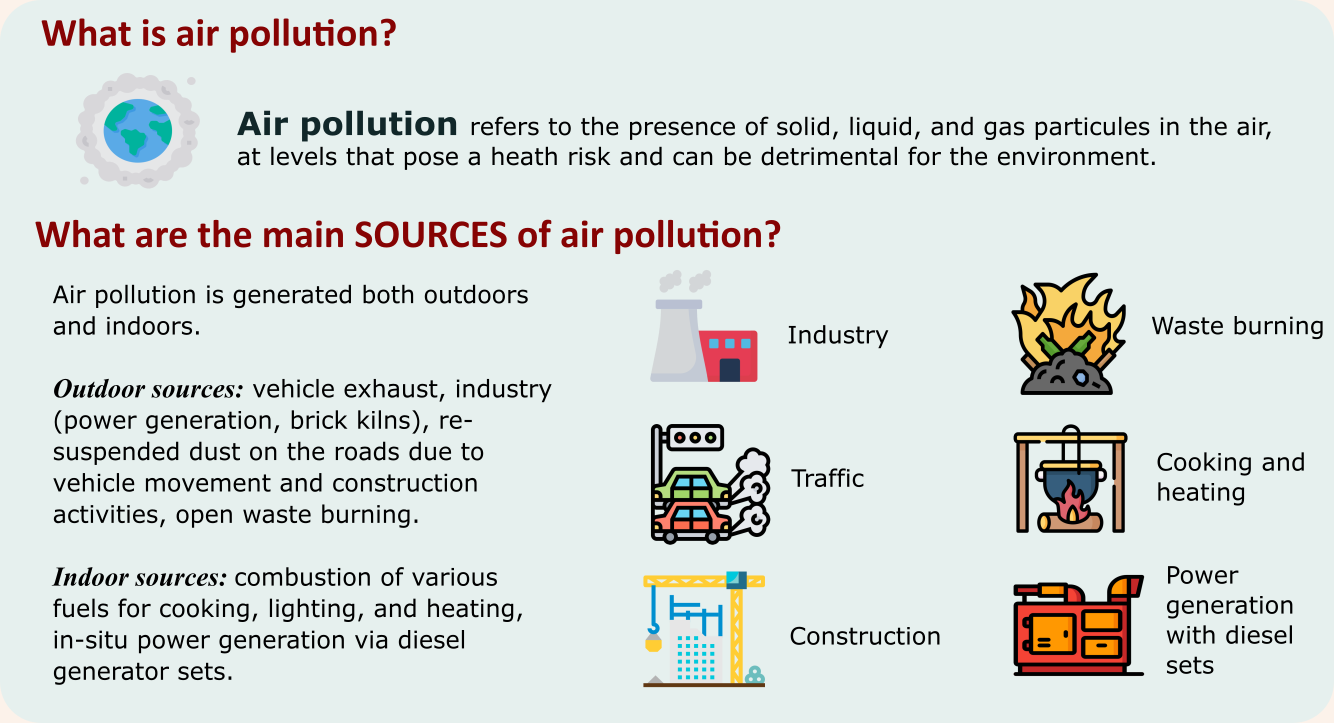
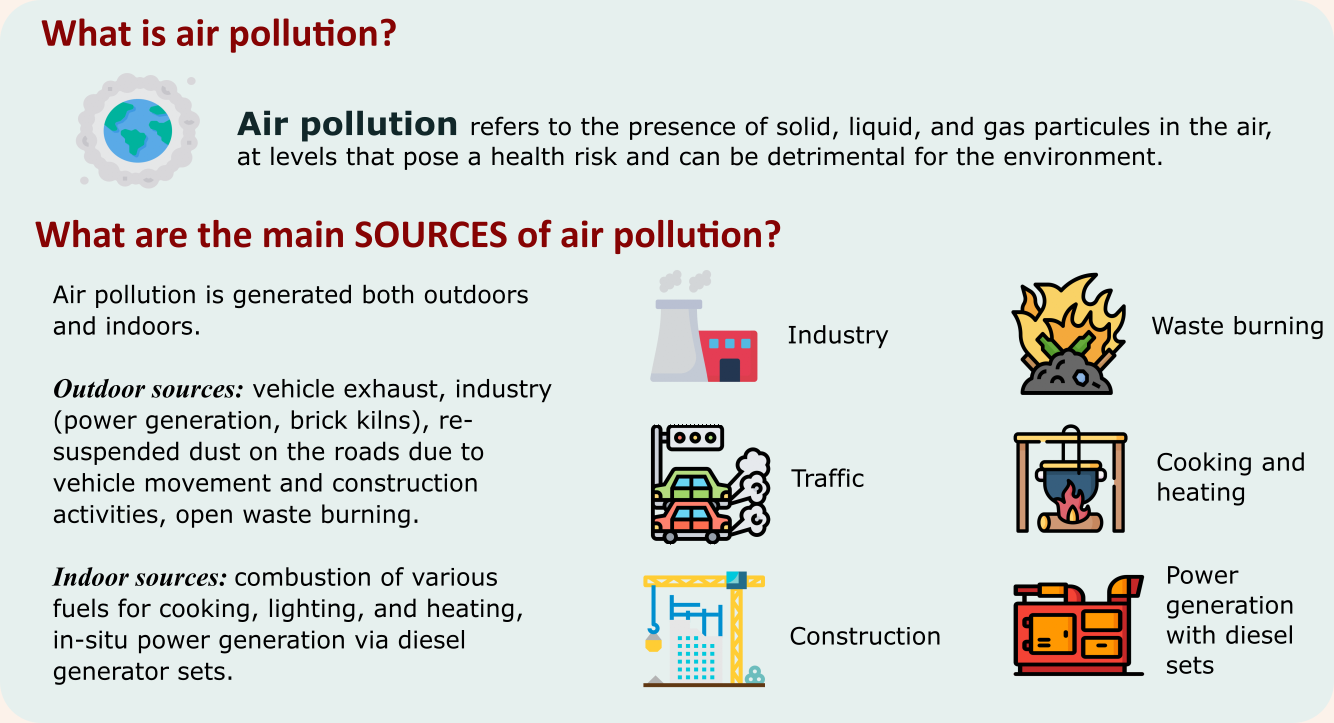
P1 typo corrected and authorization enabled

Changed region(s): [[0.3996, 0.1826, 0.8606, 0.2434]]

diff --git a/auth/auth.settings.js b/auth/auth.settings.js
@@ -13,7 +13,7 @@ module.exports = {
      *
      * If TRUE, authorization files will be imported and checked
      */
-    enabled: false, // [true, false] Default: TRUE.
+    enabled: true, // [true, false] Default: TRUE.
 
     /**
      * ## mode
